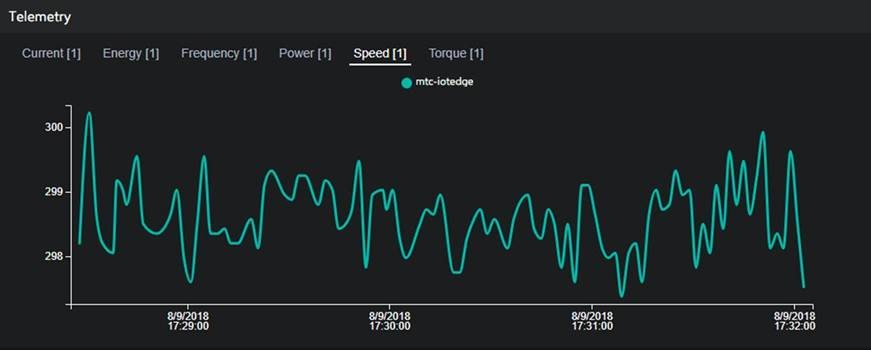
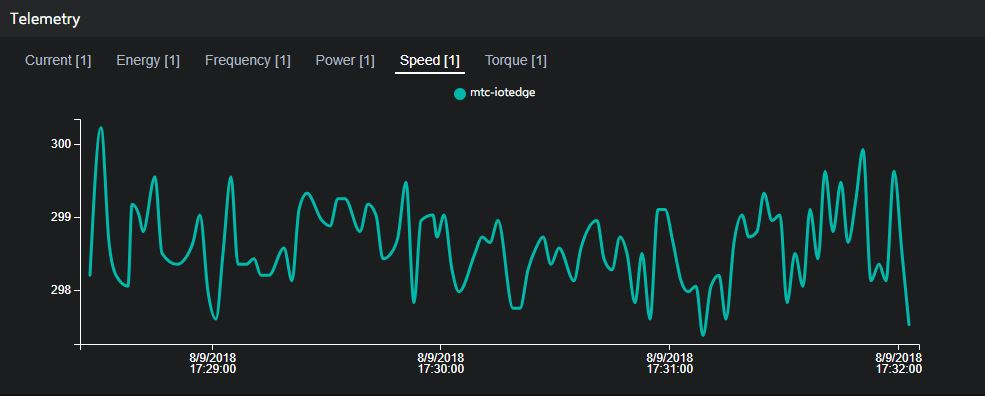
Documentation format

diff --git a/README.md b/README.md
@@ -28,14 +28,14 @@
 		<li>Add <strong>abbRemoteMonitoringGateway module</strong> as described<a href="https://github.com/MaxKhlupnov/SmartHive.AbbEdge/blob/master/Docs/abbRemoteMonitoringGateway.md">here</a></li>
 		<li>Select <strong>Next</strong>.</li>
 		<li><p>In the <strong>Specify Routes</strong> step, copy the following JSON into the text box. </p>
-			<pre>
-			"routes": {
-				"modbusToAbbAcsEdgeProfile": "FROM /messages/modules/modbus/outputs/modbusOutput INTO BrokeredEndpoint(\"/modules/abbDriveProfile/inputs/driveProfileInput\")",
-				"abbDriveProfileToRemoteMonitoringGateway": "FROM /messages/modules/abbDriveProfile/outputs/driveProfileOutput INTO BrokeredEndpoint(\"/modules/abbRemoteMonitoringGateway/inputs/gatewayInput\")",          
-				"abbRemoteMonitoringGatewayToIoTHub": "FROM /messages/modules/abbRemoteMonitoringGateway/outputs/* INTO $upstream"
-			}
-			</pre>
-			<ol>
+		<pre>
+"routes": {
+	"modbusToAbbAcsEdgeProfile": "FROM /messages/modules/modbus/outputs/modbusOutput INTO BrokeredEndpoint(\"/modules/abbDriveProfile/inputs/driveProfileInput\")",
+	"abbDriveProfileToRemoteMonitoringGateway": "FROM /messages/modules/abbDriveProfile/outputs/driveProfileOutput INTO BrokeredEndpoint(\"/modules/abbRemoteMonitoringGateway/inputs/gatewayInput\")",          
+	"abbRemoteMonitoringGatewayToIoTHub": "FROM /messages/modules/abbRemoteMonitoringGateway/outputs/* INTO $upstream"
+}
+		</pre>
+		<ul>
 			<li>Route "modbusToAbbAcsEdgeProfile" sends all messages collected by the Modbus module to abbDriveProfile module for actual  parameters calculation. 
 			In this route, ''modbusOutput'' is the endpoint that Modbus module use to output data, and driveProfileInput is the endpoint that abbDriveProfile use for reading data
 			and calculate actual parameter values based on modbus register values</li>
@@ -49,10 +49,11 @@
 			<li>In the <strong>Review Deployment</strong> step, select <strong>Submit</strong>. </li>
 			<li>Return to the device details page and select <strong>Refresh</strong>. You should see the new <strong>modbus</strong> module running along with the IoT Edge runtime.</li>
 			<img src="https://github.com/MaxKhlupnov/SmartHive.AbbEdge/blob/master/Docs/Images/EdgeModulesPicture.PNG?raw=true"/>
-    </ol>  
+		</ul> 
+	</li>
 	<li>Use IoT Hub Device Explorer to trace messages from ACS drive to IoT Hub<br/>
 	<img src='https://github.com/MaxKhlupnov/SmartHive.AbbEdge/blob/master/Docs/Images/DeviceExplorer.png?raw=true'/></li>
 	<li>Check your Azure remote monitoring solution web portal graphs for telemetry<br>
-	<img src="https://github.com/MaxKhlupnov/SmartHive.AbbEdge/blob/master/Docs/Images/RemoteMonitoring.png?raw=true">
+	<img src="https://github.com/MaxKhlupnov/SmartHive.AbbEdge/blob/master/Docs/Images/RemoteMonitoring.jpg?raw=true">
 	</li>
 </ul>
